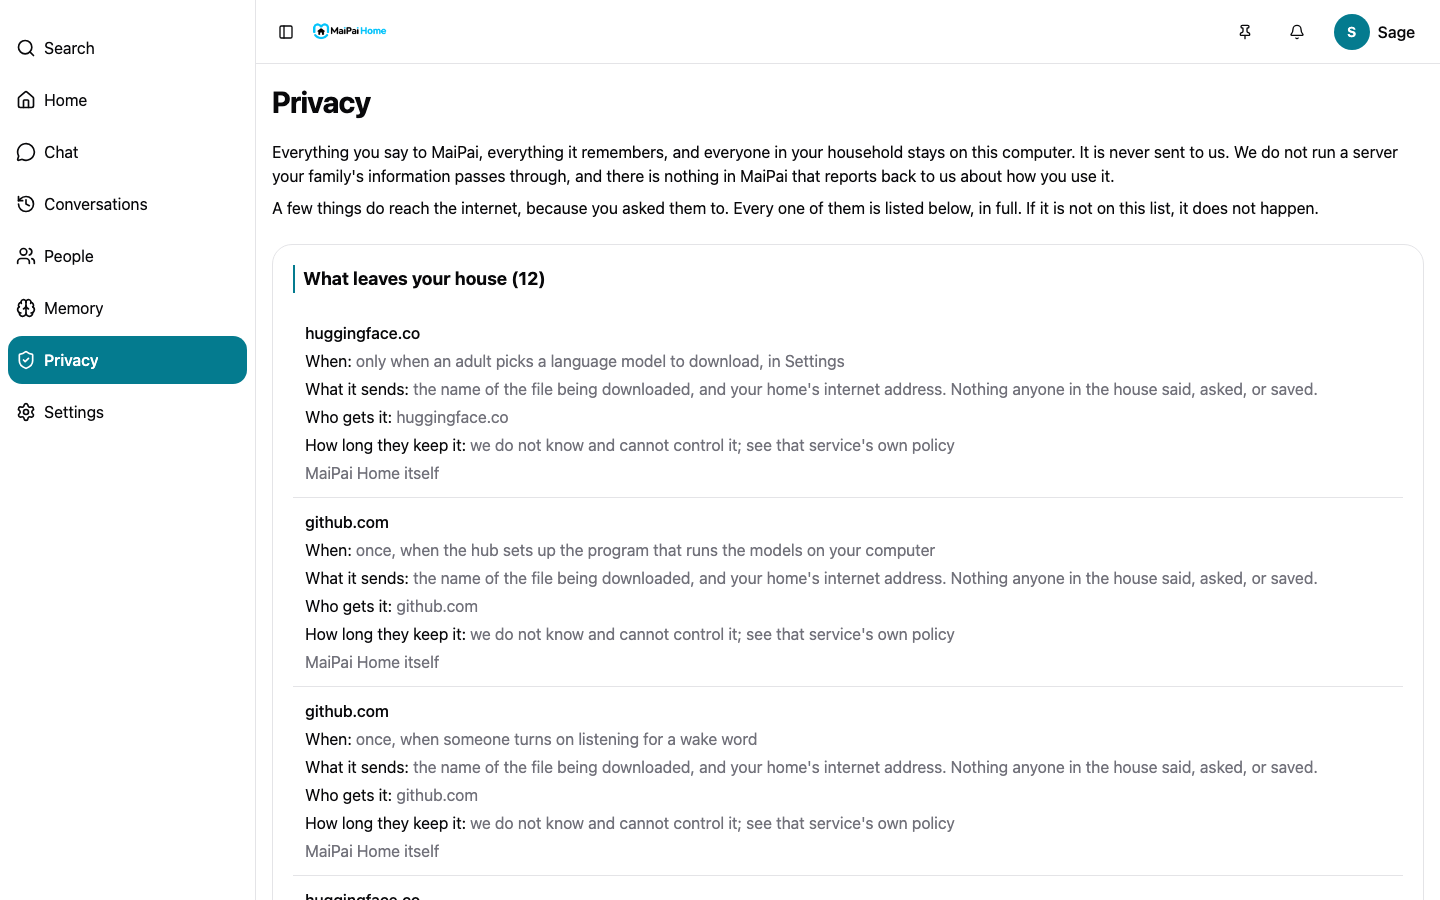
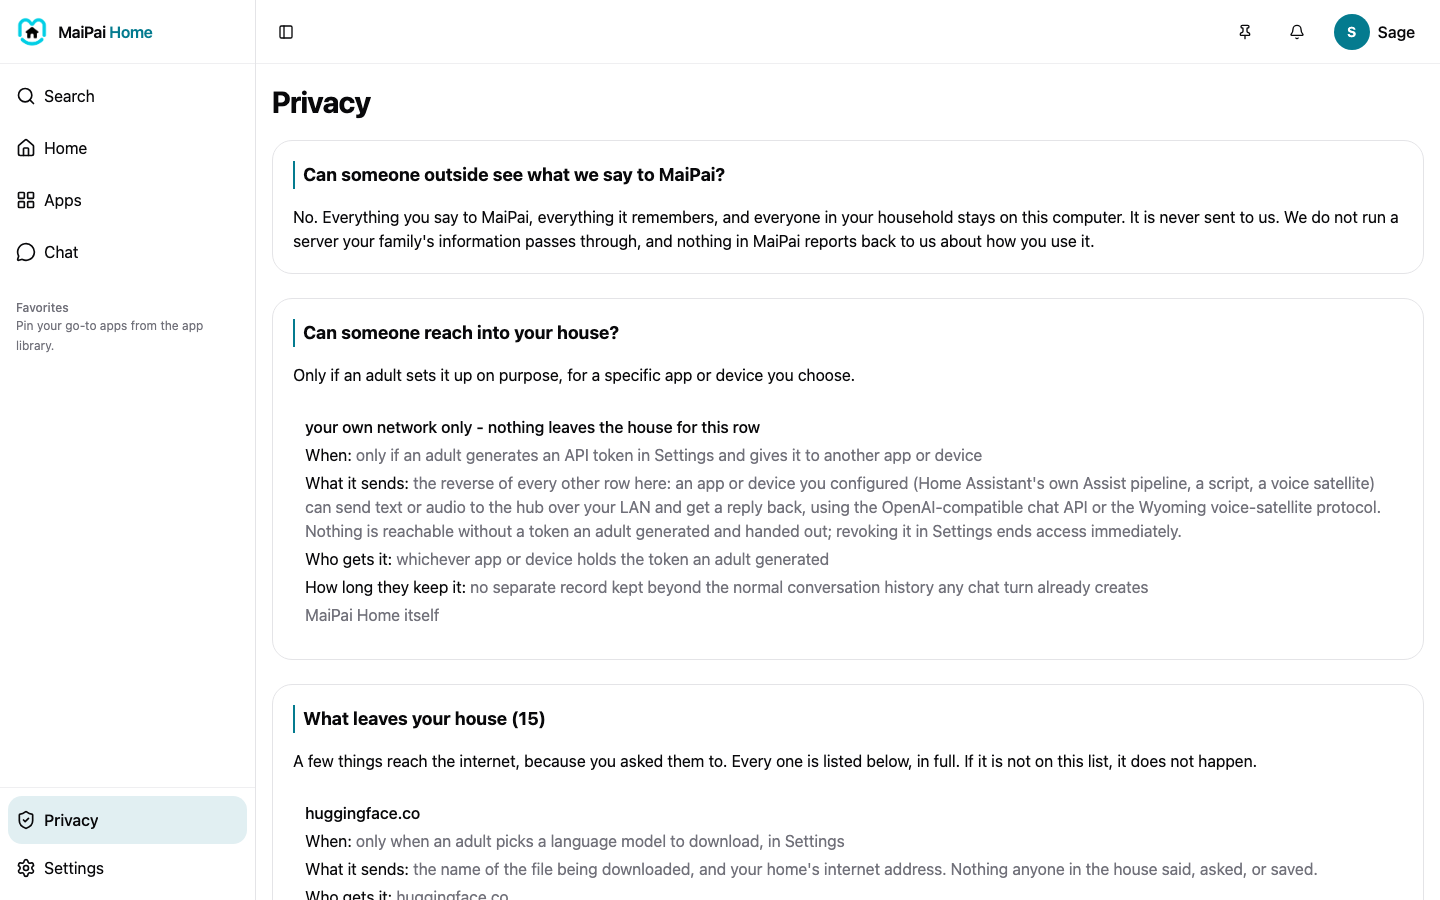
Fix #56: regenerate the stale Privacy page screenshot
Regenerated docs/assets/screens/privacy-desktop-light.png with the
Chromium screenshot script and opened it. Confirmed the #12 reorganization:
leads with "Can someone outside see what we say to MaiPai?", then "Can
someone reach into your house?", then the "What leaves your house (15)"
table. Real content (a live Sage household), no spinner or empty state.

Checked docs/user/privacy.md against the regenerated image - the prose
still accurately describes what the page shows (the four-column table
shape, the API-token "reaching into your house" callout, the "everything
stays on this computer" framing). No drift found, no prose change needed.

Closes #56
Claude-Session: https://claude.ai/code/session_01WTNtGwngiHBWEj3FHCG85T

diff --git a/docs/dev.md b/docs/dev.md
@@ -11163,3 +11163,24 @@ itself running clean is the verification.
 
 Closes #69.
 
+**#56: the Privacy page screenshot was stale.** Regenerated with
+`bun run screenshots` (the full matrix, since the script writes every
+route/viewport/theme combo in one run - only `privacy-desktop-light.png`
+and the org's own `hero.png` came out changed from that run touching
+every file; `hero.png` was reverted as out of scope for this issue, only
+the one target file is in this commit). Opened the result: it leads with
+"Can someone outside see what we say to MaiPai?", then "Can someone reach
+into your house?", then "What leaves your house (15)" - the #12
+reorganization, real content (a live Sage household, "huggingface.co" as
+the first real outbound entry), no spinner or empty state. Checked
+`docs/user/privacy.md` against it: the prose still accurately describes
+what the page shows (the four-column "When/What it sends/Who gets it/How
+long they keep it" shape, the API-token "something reaching into your
+house" callout, the "everything stays on this computer" framing) - no
+drift found, no prose change needed.
+
+Files: `docs/assets/screens/privacy-desktop-light.png`. Checks: the image
+opened and read by hand.
+
+Closes #56.
+

diff --git a/docs/BACKLOG.md b/docs/BACKLOG.md
@@ -3330,7 +3330,19 @@ future session now that F's hub half exists.
     --a11y-only --webkit` (34 pages, 0 violations, keyboard-trap check
     passing). Note: the full `--chat-review --webkit` repro command still
     fails on an unrelated, pre-existing WebKit chat-exchange timeout - not
-    a keyboard issue, out of scope here, flagged for its own issue.
+    a keyboard issue, filed as #75. Also filed #76: a `--webkit` run
+    silently overwrites the Chromium screenshots the docs publish, since
+    output filenames carry no browser tag - hit this myself verifying
+    #69, reverted the overwritten images by hand.
+
+- [x] **#56: The Privacy page screenshot was stale** (S, Session B, 2026-09-12)
+
+    Regenerated with `bun run screenshots`, opened, confirmed the #12
+    reorganization (leads with "Can someone outside see what we say to
+    MaiPai?", then "Can someone reach into your house?", then "What
+    leaves your house (15)"), real content, no spinner or empty state.
+    Checked `docs/user/privacy.md` against it - no drift, no prose change
+    needed. Files: `docs/assets/screens/privacy-desktop-light.png`.
 
 - [x] **#66: Hardcoded "unavailable" error code masked safety refusals** (S, 2026-09-12)
 
